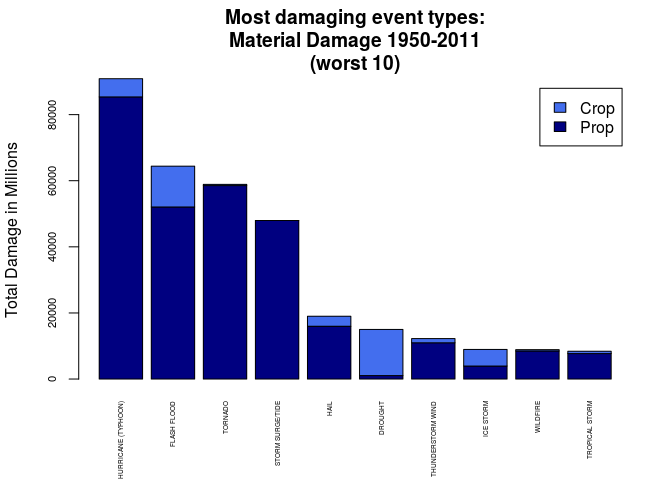
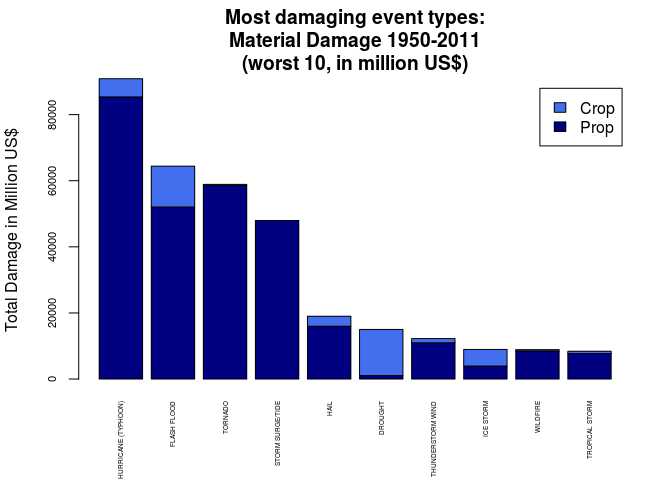
commit published PA02 on Rpubs

Changed region(s): [[0.3438, 0.0938, 0.7188, 0.1562], [0.0, 0.25, 0.0312, 0.6875]]

diff --git a/PA02.md b/PA02.md
@@ -577,7 +577,6 @@ pctHD <- round(100*(NON[1,sF]+NON[1,sI])/(ALL[1,sF]+ALL[1,sI]), 2)  # %Human dam
 pctMD <- round(100*(NON[1,sP]+NON[1,sC])/(ALL[1,sP]+ALL[1,sC]), 2)  # %Material damage
 
 # remove the non-permitted EVTYPE rows
-STORM_INV <- STORM[!EVTYPE %in% permitted_EVTYPES, ]
 STORM <- STORM[EVTYPE %in% permitted_EVTYPES, ]
 ```
 
@@ -756,8 +755,8 @@ barplot(mdm,
         # ylim = c(0, 10000),
         beside = FALSE, las = 3, 
         cex.axis = 0.7, cex.names = 0.4,
-        main = "Most damaging event types:\nMaterial Damage 1950-2011\n(worst 10)", 
-        ylab = "Total Damage in Millions", 
+        main = "Most damaging event types:\nMaterial Damage 1950-2011\n(worst 10, in million US$)", 
+        ylab = "Total Damage in Million US$", 
         legend.text = rownames(mdm))
 ```
 
@@ -800,17 +799,15 @@ sessionInfo()
 ## [1] stats     graphics  grDevices utils     datasets  methods   base     
 ## 
 ## other attached packages:
-## [1] ggplot2_1.0.0    plyr_1.8.1       data.table_1.9.4
+## [1] plyr_1.8.1       data.table_1.9.4
 ## 
 ## loaded via a namespace (and not attached):
-##  [1] chron_2.3-45     codetools_0.2-9  colorspace_1.2-4 digest_0.6.4    
-##  [5] evaluate_0.5.5   formatR_1.0      grid_3.1.2       gtable_0.1.2    
-##  [9] htmltools_0.2.6  knitr_1.8        MASS_7.3-35      munsell_0.4.2   
-## [13] proto_0.3-10     Rcpp_0.11.3      reshape2_1.4.1   rmarkdown_0.3.10
-## [17] scales_0.2.4     stringr_0.6.2    tools_3.1.2      yaml_2.1.13
+##  [1] chron_2.3-45     digest_0.6.4     evaluate_0.5.5   formatR_1.0     
+##  [5] htmltools_0.2.6  knitr_1.8        Rcpp_0.11.3      reshape2_1.4.1  
+##  [9] rmarkdown_0.3.10 stringr_0.6.2    tools_3.1.2      yaml_2.1.13
 ```
 
 The RMarkdown file has been published as a [Github Project](https://github.com/ronasta/RepData_PeerAssessment2)  
   
 The report was produced using `RStudio/knittr`  
-**on 2014-12-18 at 06:08:03 (BRT, GMT-0300)**  
+**on 2014-12-19 at 22:09:10 (BRT, GMT-0300)**  
